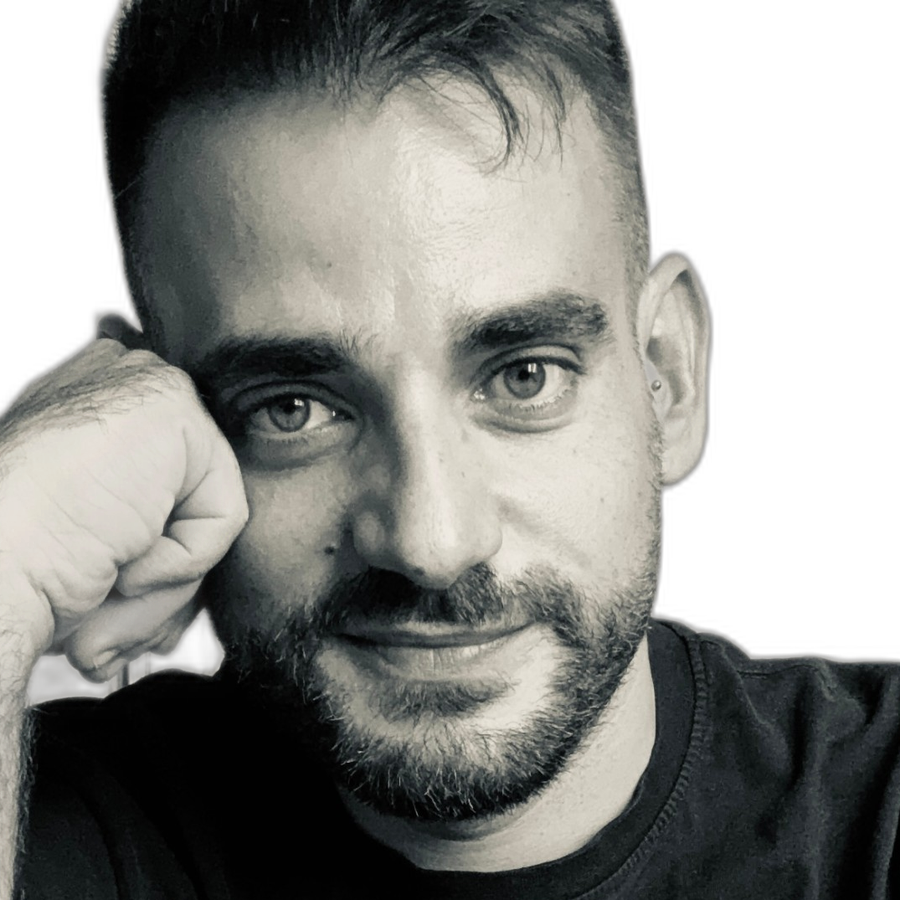
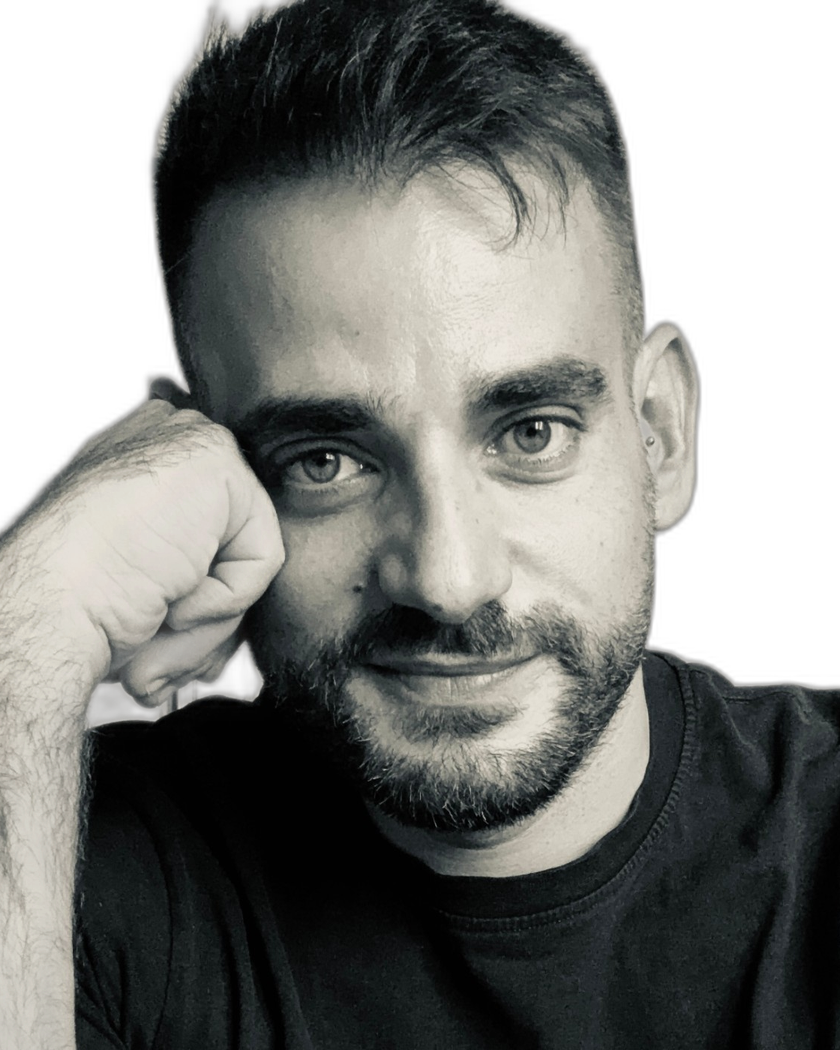
About: portrait goes rectangular (4:5) instead of a circle
Same 420px width, squared corners, vertical 4:5 crop. Reframed the
asset rather than just dropping border-radius: the circle was hiding
the source photo's flat top edge by cropping at its tangent point,
but a straight top edge exposes it. Framing from the photo's own top
row puts that flat edge exactly on the frame's edge, so it reads as a
tight crop rather than a damaged photo.

diff --git a/index.html b/index.html
@@ -11,7 +11,7 @@
 <link rel="preconnect" href="https://api.fontshare.com">
 <link href="https://api.fontshare.com/v2/css?f[]=switzer@400,500,600,700,800,900&display=swap" rel="stylesheet">
 
-<link rel="stylesheet" href="css/styles.css?v=54">
+<link rel="stylesheet" href="css/styles.css?v=55">
 </head>
 <body>
 
@@ -108,7 +108,7 @@
     <div class="about__grid">
       <p class="about__statement reveal">I'm Dario, a creative UX/UI and graphic designer who believes good design is felt before it's explained. I care about clarity, restraint, and details that earn their place — no fluff, no filler, no design by committee.</p>
       <figure class="about__portrait reveal">
-        <img src="assets/dario-portrait.png?v=2" alt="Dario Capalbi">
+        <img src="assets/dario-portrait.png?v=3" alt="Dario Capalbi">
       </figure>
     </div>
 

diff --git a/css/styles.css b/css/styles.css
@@ -571,14 +571,13 @@ html.has-custom-cursor button {
   line-height: 1.35;
 }
 
-/* Cut-out portrait sitting in a solid disc - the image itself is a
-   transparent PNG, so the circle is this element's own background. */
+/* Cut-out portrait on a solid panel - the image itself is a
+   transparent PNG, so the panel is this element's own background. */
 .about__portrait {
   margin: 0;
   justify-self: end;
   width: min(100%, 420px);
-  aspect-ratio: 1;
-  border-radius: 50%;
+  aspect-ratio: 4 / 5;
   background: #deddd8;
   overflow: hidden;
 }
